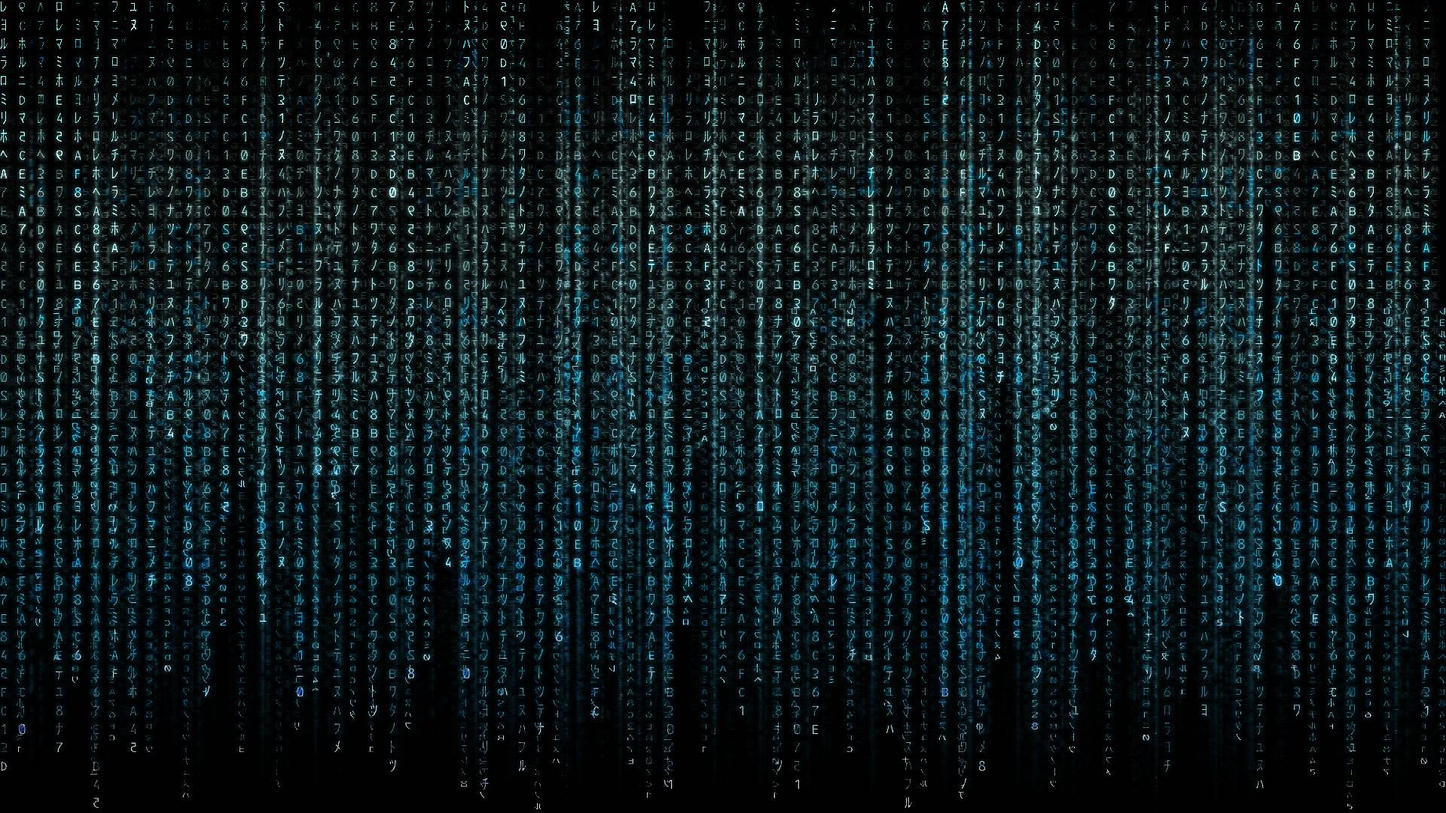
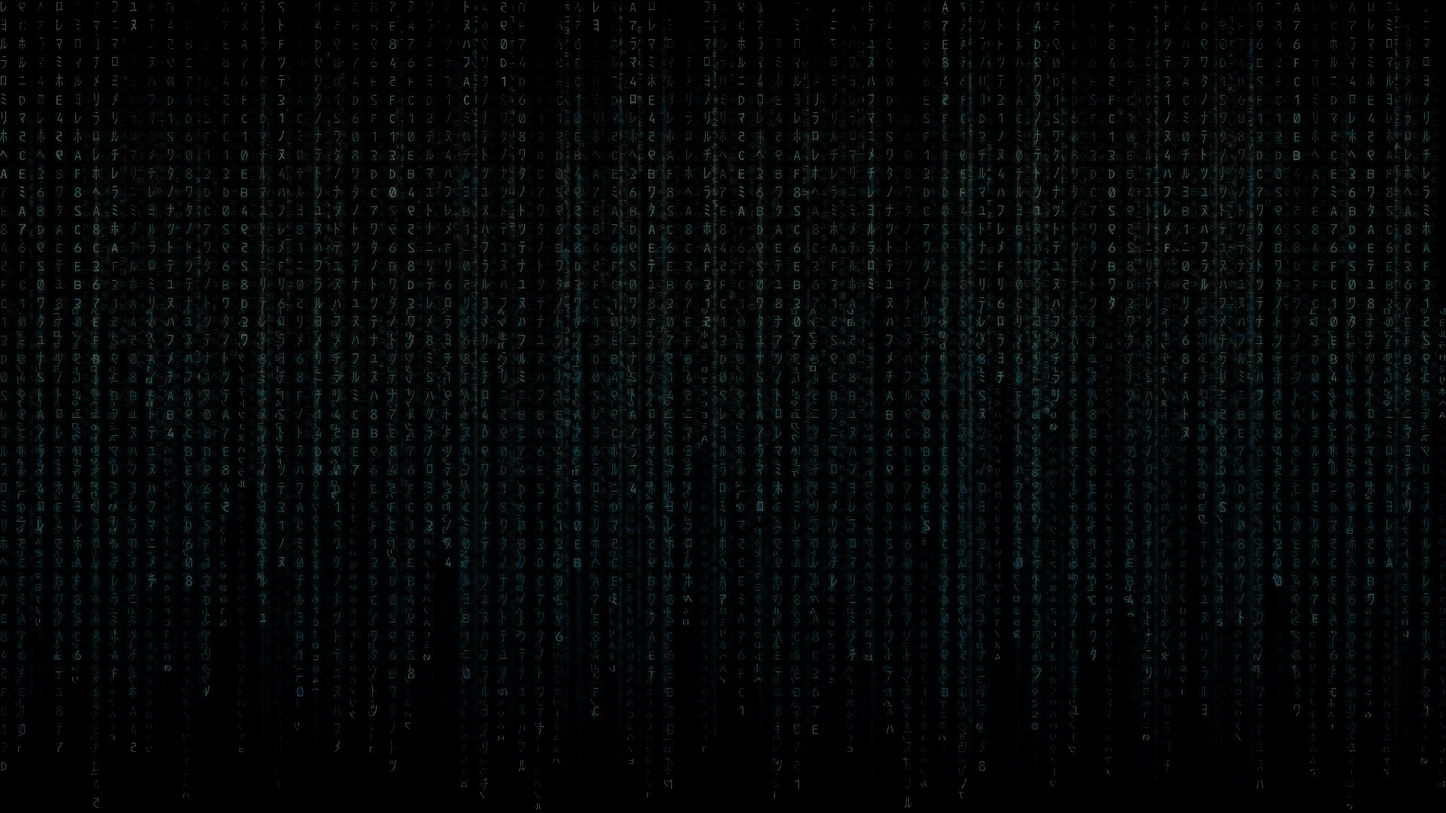
nav bar background image added

Changed region(s): [[0.0, 0.0306, 1.0, 0.9167]]

diff --git a/style.css b/style.css
@@ -98,7 +98,8 @@ list-style-type: none;
     
 }
 #sidebar{
-    background-color:#9D9D9D;
+    background:#9D9D9D url(/Images/coding-wallpaper.jpg);
+    background: 3;
     padding:2rem;
     width:6rem;
     
